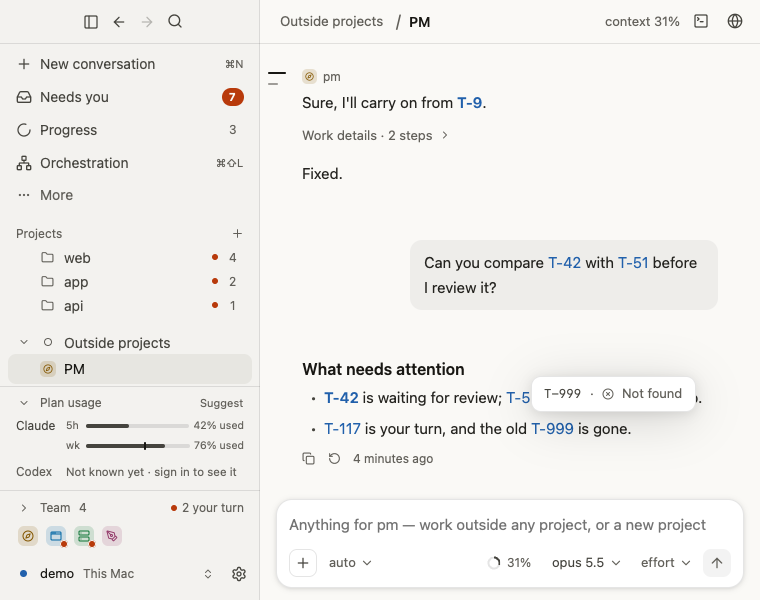
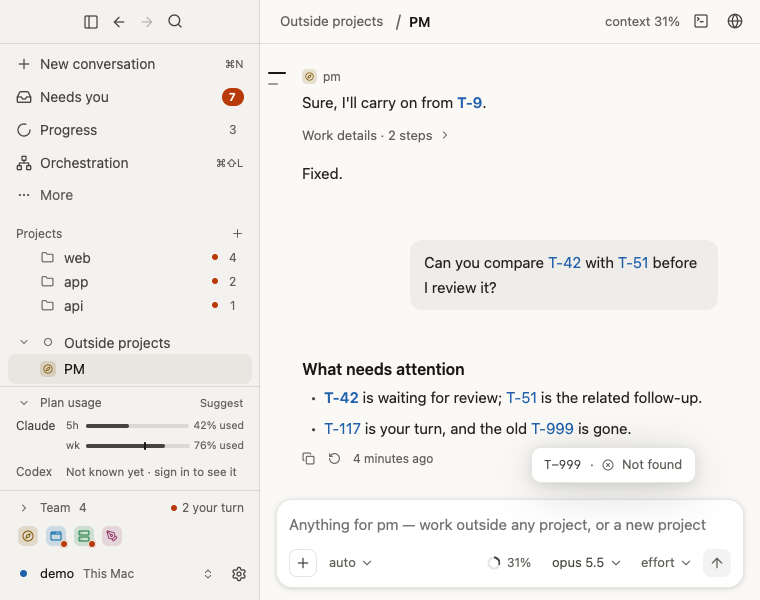
T-777 Small ticket card keeps clear of the reply's text: beside its row, or above/below where no text is
The one-line card (Looking…, Couldn't check, Not found) sat over the next
line. It now goes beside the link's row past its text when there is room,
else above or below where no row of text is within its height (slid right
along that line to where its text ends), else where it covers least. It keeps
the side it took as it turns into Couldn't check or the ticket's card.
gpui-base: TextSelection::text_rows, the window's painted text rows.

Changed region(s): [[0.6961, 0.63, 0.9079, 0.72], [0.7263, 0.75, 0.9079, 0.84]]

diff --git a/crates/desktop/src/views/ticket_card.rs b/crates/desktop/src/views/ticket_card.rs
@@ -492,6 +492,9 @@ pub struct TicketCard {
     looked: HashMap<TicketId, Instant>,
     /// Whose card was last drawn (a number, and whether it is the ticket's or the small one): its size is that card's.
     shape: Option<(TicketId, bool)>,
+    /// Where the small card went for the card opened at this epoch on this number: what it turns into
+    /// ("Couldn't check", the ticket's card) opens there too.
+    small: Option<(u64, TicketId, Rect, Side)>,
     /// The card drawn was cut to its room, so its height says nothing of how tall it is.
     capped: bool,
     /// Tickets acted on from a card: their undo shows off the work screens.
@@ -516,7 +519,7 @@ pub fn layer(cx: &mut Context<Shell>) -> AnyView {
     let card = cx.new(|cx| {
         // The daemon's answer to a lookup changes the shell, not the card: redraw with it.
         cx.observe(&owner, |_, _, cx| cx.notify()).detach();
-        TicketCard { shell, hover: Hover::default(), timer: None, drawn: Rc::new(Cell::new(None)), result: None, asked: HashMap::new(), looked: HashMap::new(), shape: None, capped: false, acted: HashSet::new(), said: (0, ScrollHandle::new(), ScrollHandle::new()) }
+        TicketCard { shell, hover: Hover::default(), timer: None, drawn: Rc::new(Cell::new(None)), result: None, asked: HashMap::new(), looked: HashMap::new(), shape: None, small: None, capped: false, acted: HashSet::new(), said: (0, ScrollHandle::new(), ScrollHandle::new()) }
     });
     cx.set_global(Layer(card.clone()));
     gpui_kit::base::text::on_link_hover(cx, |url, bounds, _, cx| {
@@ -797,9 +800,25 @@ impl Render for TicketCard {
         let natural = match self.drawn.get() {
             Some(r) => (r.w, if self.capped { tallest(window_size.1) } else { r.h }),
             None if found => GUESS,
-            None => (200., 36.),
+            None => (200., MISSING_H),
         };
-        let ((x, y, side), room) = fit_for(target.anchor, natural, window_size, target.prefer, found);
+        // Kept while the link stays where it was: a window made narrower picks again.
+        let kept = self.small.filter(|&(epoch, id, at, _)| epoch == self.hover.epoch && id == target.id && at == target.anchor).map(|(.., side)| side);
+        let ((x, y, side), room) = if found {
+            match kept {
+                // The look went above or below: the ticket's card grows there, as tall as that side lets it.
+                Some(side @ (Side::Above | Side::Below)) => fit_on(target.anchor, natural, window_size, side),
+                _ => fit(target.anchor, natural, window_size, target.prefer),
+            }
+        } else {
+            // Clear of the text around it, at the size of its widest words, so turning into another keeps its place.
+            let size = (natural.0.max(missing_width(window, target.id)), self.drawn.get().map_or(MISSING_H, |r| r.h));
+            let rows: Vec<Rect> = gpui_kit::base::TextSelection::text_rows(window, cx).into_iter().map(Rect::of).collect();
+            let (_, _, vertical) = place(target.anchor, GUESS, window_size, target.prefer);
+            let at = place_small(target.anchor, size, window_size, vertical, &rows, kept);
+            self.small = Some((self.hover.epoch, target.id, target.anchor, at.2));
+            (at, room_on(target.anchor, window_size.1, at.2).max(size.1))
+        };
         // Cut to the room it was given, it stays "cut" next time: the side is picked by what it would be uncut.
         self.capped = self.drawn.get().is_some_and(|r| r.h >= room - 0.5);
         let drawn = self.drawn.clone();
@@ -843,14 +862,97 @@ fn fit(anchor: Rect, natural: (f32, f32), window: (f32, f32), prefer: Side) -> (
     (place(anchor, (natural.0, natural.1.min(room)), window, prefer), room)
 }
 
-/// [`fit`] for the card of a ticket, or (`found` false) for the small one standing in for it: it takes the
-/// side the ticket's card would, so the answer grows in the place the look was, and never lands on the next line.
-fn fit_for(anchor: Rect, natural: (f32, f32), window: (f32, f32), prefer: Side, found: bool) -> ((f32, f32, Side), f32) {
-    if found {
-        return fit(anchor, natural, window, prefer);
+/// [`fit`] held to `side`, the side the small card took: cut to its room there rather than turned over.
+fn fit_on(anchor: Rect, natural: (f32, f32), window: (f32, f32), side: Side) -> ((f32, f32, Side), f32) {
+    let room = room_on(anchor, window.1, side);
+    (place(anchor, (natural.0, natural.1.min(room)), window, side), room)
+}
+
+/// Between the small card and the end of the text it sits beside.
+const BESIDE_GAP: f32 = 10.;
+
+/// Whether `r` covers none of the rows of text `rows` (touching is not covering).
+fn clear_of(r: Rect, rows: &[Rect]) -> bool {
+    rows.iter().all(|t| r.x >= t.right() - 0.5 || r.right() <= t.x + 0.5 || r.y >= t.bottom() - 0.5 || r.bottom() <= t.y + 0.5)
+}
+
+/// How much of the rows of text `rows` `r` covers.
+fn covered(r: Rect, rows: &[Rect]) -> f32 {
+    rows.iter().map(|t| (r.right().min(t.right()) - r.x.max(t.x)).max(0.) * (r.bottom().min(t.bottom()) - r.y.max(t.y)).max(0.)).sum()
+}
+
+/// Where the small card ("Looking…", "Not found") goes for a link at `anchor`, with the window's text in
+/// `rows`: beside the link's row past its text, when the row has room there and nothing above or below
+/// reaches into it; else on `prefer`'s side where no text is within its height — at the link, or slid
+/// right to where the text there ends, no further than a card's width — else the other side so; else the side where it covers least. `keep`: the side it took
+/// before, which it stays on while it still fits there.
+pub fn place_small(anchor: Rect, card: (f32, f32), window: (f32, f32), prefer: Side, rows: &[Rect], keep: Option<Side>) -> (f32, f32, Side) {
+    let (w, h) = card;
+    let (ww, wh) = window;
+    let inside = |r: Rect| r.x >= MARGIN - 0.5 && r.right() <= ww - MARGIN + 0.5 && r.y >= MARGIN - 0.5 && r.bottom() <= wh - MARGIN + 0.5;
+    let fits = |r: Rect| inside(r) && clear_of(r, rows);
+    let beside = || {
+        // The row's text: what shares the link's line (most of its height), the link included.
+        let end = rows.iter().filter(|t| t.y.max(anchor.y) - t.bottom().min(anchor.bottom()) < -anchor.h / 2.).fold(anchor.right(), |end, t| end.max(t.right()));
+        let x = end + BESIDE_GAP;
+        // Centred on the row, or its top or foot on the row's, whichever no line above or below reaches.
+        let spots = [anchor.y + (anchor.h - h) / 2., anchor.y, anchor.bottom() - h].map(|y| Rect::new(x, y, w, h));
+        spots.into_iter().find(|&r| fits(r))
+    };
+    // At the link's left edge, as the ticket's card goes.
+    let home = |side: Side| {
+        let (x, _, _) = place(anchor, card, window, side);
+        Rect::new(x, if side == Side::Below { anchor.bottom() + GAP } else { anchor.y - GAP - h }, w, h)
+    };
+    let over = |side: Side| {
+        let at = home(side);
+        // Where the text in its band leaves off: the places it could slide to, nearest first. Only right,
+        // and not far: to the left is the gutter and what is beside the conversation.
+        let band = rows.iter().filter(|t| t.y < at.bottom() - 0.5 && t.bottom() > at.y + 0.5);
+        let xs = std::iter::once(at.x).chain(band.map(|t| t.right() + BESIDE_GAP)).filter(|&x| x >= at.x && x <= anchor.x + WIDTH);
+        xs.map(|x| Rect::new(x, at.y, w, h)).filter(|&r| fits(r)).min_by(|a, b| a.x.total_cmp(&b.x))
+    };
+    let at = |r: Rect, side: Side| (r.x, r.y, side);
+    match keep {
+        Some(Side::Right) => {
+            if let Some(r) = beside() {
+                return at(r, Side::Right);
+            }
+        }
+        Some(side) => return over(side).map_or_else(|| place(anchor, card, window, side), |r| at(r, side)),
+        None => {}
     }
-    let (_, _, side) = place(anchor, GUESS, window, prefer);
-    fit(anchor, natural, window, side)
+    if let Some(r) = beside() {
+        return at(r, Side::Right);
+    }
+    let other = if prefer == Side::Above { Side::Below } else { Side::Above };
+    for side in [prefer, other] {
+        if let Some(r) = over(side) {
+            return at(r, side);
+        }
+    }
+    // Nowhere clear (a narrow window, big text): the side where it covers least.
+    let side = if inside(home(other)) && covered(home(other), rows) < covered(home(prefer), rows) { other } else { prefer };
+    place(anchor, card, window, side)
+}
+
+/// The small card's height as drawn: its row and border.
+const MISSING_H: f32 = 36.;
+
+/// How wide the small card for `id` is with the widest of its words, so that it fits where it goes whichever
+/// it says next: its number, a dot, a mark and the words, with its padding, gaps and border.
+fn missing_width(window: &Window, id: TicketId) -> f32 {
+    let system = window.text_system().clone();
+    let style = window.text_style();
+    let width = |text: String, font: Font, size: f32| {
+        let run = TextRun { len: text.len(), font, color: Hsla::default(), background_color: None, underline: None, strikethrough: None };
+        f32::from(system.shape_line(text.into(), px(size), &[run], None).width)
+    };
+    let words = [t!("card.loading"), t!("card.not_found"), t!("card.unanswered")].into_iter().map(|w| width(w.to_string(), style.font(), SMALL)).fold(0., f32::max);
+    let number = width(format!("T-{id}"), font(MONO), 12.);
+    let dot = width("·".into(), style.font(), SMALL);
+    // Padding 12 each side, three gaps of 8, a 12 pt mark, a 1 pt border each side; a little over for the fonts.
+    (2. * 12. + 3. * 8. + 12. + 2. + number + dot + words + 4.).max(MISSING_MIN)
 }
 
 /// The room between the window's margin and the link, on `side` of it.
@@ -1290,7 +1392,7 @@ mod tests {
 
     use equipe_core::protocol::{TicketId, TicketStatus};
 
-    use super::{Act, CLOSE_AFTER, Hover, OPEN_AFTER, Phase, RESULT_FOR, Rect, SCROLL_QUIET, Side, Target, act_for_key, acts, done_words, fit, fit_for, place, tallest};
+    use super::{Act, CLOSE_AFTER, Hover, OPEN_AFTER, Phase, RESULT_FOR, Rect, SCROLL_QUIET, Side, Target, act_for_key, acts, done_words, fit, fit_on, place, place_small, tallest};
     use crate::board::MergeWay;
 
     const WIN: (f32, f32) = (1200., 800.);
@@ -1367,17 +1469,78 @@ mod tests {
         assert_eq!(sunk, Side::Below);
     }
 
+    /// A paragraph's rows, 20 tall from `top`, each `widths[i]` wide from x 80.
+    fn rows(top: f32, widths: &[f32]) -> Vec<Rect> {
+        widths.iter().enumerate().map(|(i, &w)| Rect::new(80., top + 20. * i as f32, w, 20.)).collect()
+    }
+
+    fn covers(at: (f32, f32, Side), card: (f32, f32), rows: &[Rect]) -> bool {
+        let r = Rect::new(at.0, at.1, card.0, card.1);
+        rows.iter().any(|t| r.x < t.x + t.w - 0.5 && t.x + 0.5 < r.x + r.w && r.y < t.y + t.h - 0.5 && t.y + 0.5 < r.y + r.h)
+    }
+
     #[test]
-    fn looking_and_not_found_take_the_side_the_ticket_card_will_take() {
-        // 760×600: 300 above the link, 270 below; the ticket card (about 300) goes above.
-        let (anchor, win) = (link(100., 300.), (760., 600.));
-        let ticket = fit_for(anchor, (380., 400.), win, Side::Below, true).0;
-        let looking = fit_for(anchor, (200., 36.), win, Side::Below, false).0;
-        assert_eq!((ticket.2, looking.2), (Side::Above, Side::Above));
-        // Its foot a gap over the link, as the ticket's card's is: the answer grows upward from the same edge.
-        assert!((looking.1 + 36. - (300. - 6.)).abs() < 0.01, "{looking:?}");
-        // Where the ticket's card fits below (a link high up), the small one goes below too.
-        assert_eq!(fit_for(link(100., 40.), (200., 36.), win, Side::Below, false).0.2, Side::Below);
+    fn the_small_card_sits_beside_its_link_when_its_row_has_room() {
+        // A heading over the link's row and a line under it, as in T-42's reply; the row ends at 480.
+        let text = rows(280., &[220., 400., 420.]);
+        let anchor = Rect::new(80., 300., 40., 20.);
+        let card = (190., 36.);
+        let at = place_small(anchor, card, WIN, Side::Above, &text, None);
+        assert_eq!(at.2, Side::Right);
+        assert!(at.0 >= 480., "{at:?}");
+        assert!(!covers(at, card, &text), "{at:?}");
+    }
+
+    #[test]
+    fn a_full_row_sends_the_small_card_to_the_side_with_no_text() {
+        // Rows to the window's edge: nothing beside. Text above the link, none below.
+        let text = rows(260., &[1100., 1100., 1100.]);
+        let anchor = Rect::new(300., 300., 40., 20.);
+        let card = (190., 36.);
+        let at = place_small(anchor, card, WIN, Side::Above, &text, None);
+        assert_eq!(at.2, Side::Below);
+        assert!(!covers(at, card, &text));
+        // Text on both sides: the side asked for, as before.
+        let crowded = rows(260., &[1100., 1100., 1100., 1100., 1100.]);
+        assert_eq!(place_small(anchor, card, WIN, Side::Above, &crowded, None).2, Side::Above);
+        // The other side has no room for it: the side asked for.
+        let low = Rect::new(300., 740., 40., 20.);
+        let text = rows(700., &[1100., 1100., 1100.]);
+        assert_eq!(place_small(low, card, WIN, Side::Above, &text, None).2, Side::Above);
+    }
+
+    #[test]
+    fn the_small_card_slides_along_the_line_above_to_where_its_text_ends() {
+        // A full row with the link (nothing beside), a short heading over it, a full row under it.
+        let text = vec![Rect::new(80., 260., 240., 30.), Rect::new(80., 300., 1100., 30.), Rect::new(80., 330., 1100., 30.)];
+        let anchor = Rect::new(80., 300., 60., 30.);
+        let card = (300., 36.);
+        let at = place_small(anchor, card, WIN, Side::Above, &text, None);
+        assert_eq!(at.2, Side::Above);
+        assert!((at.0 - 330.).abs() < 0.01, "{at:?}");
+        assert!(!covers(at, card, &text));
+        // Text everywhere: the side covering least — below, where only its foot reaches the next row.
+        let full = vec![Rect::new(80., 260., 1100., 30.), Rect::new(80., 300., 1100., 30.), Rect::new(80., 330., 1100., 30.)];
+        assert_eq!(place_small(anchor, card, WIN, Side::Above, &full, None).2, Side::Below);
+    }
+
+    #[test]
+    fn what_the_small_card_turns_into_keeps_its_side() {
+        let text = rows(280., &[220., 400., 420.]);
+        let anchor = Rect::new(80., 300., 40., 20.);
+        let card = (190., 36.);
+        let first = place_small(anchor, card, WIN, Side::Above, &text, None);
+        // "Couldn't check" on the next frame: the same place, even with wider words.
+        assert_eq!(place_small(anchor, (230., 36.), WIN, Side::Above, &text, Some(first.2)).2, first.2);
+        // Kept beside where it no longer fits (wider words than were measured): it picks again, inside the window.
+        let wide = place_small(anchor, (1000., 36.), WIN, Side::Above, &text, Some(Side::Right));
+        assert_ne!(wide.2, Side::Right);
+        // Kept below, it stays below even where it could now go beside.
+        assert_eq!(place_small(anchor, card, WIN, Side::Above, &text, Some(Side::Below)).2, Side::Below);
+        // The ticket's card, held to the side the look took, is cut to that side's room rather than turned over.
+        let ((_, y, side), room) = fit_on(Rect::new(100., 300., 40., 20.), (380., 400.), (760., 600.), Side::Below);
+        assert_eq!(side, Side::Below);
+        assert!((y - 326.).abs() < 0.01 && (room - 266.).abs() < 0.01, "{y} {room}");
     }
 
     #[test]

diff --git a/design/flows/shoot-desktop.py b/design/flows/shoot-desktop.py
@@ -110,7 +110,10 @@ state("conversation/chat/ticket-card-waiting", "chat;wait:800", {"FAKE_CARDS": "
 # At 150% the narrowest window has little room: the card keeps its gap and scrolls instead. One state each, as the lookup runs out in seconds.
 Z = "chat;wait:800;zoom:150;wait:600"
 state("conversation/chat/ticket-card-zoomed", Z, {"FAKE_CARDS": "1", "FAKE_ASKS": "0", "FAKE_STALE": "42"}, sizes=[(760, 600)], at={760: "hover:512,151;wait:1500"}, label="Zoomed to 150%, narrowest width: the card keeps its gap over the link")
-state("conversation/chat/ticket-card-zoomed-missing", Z, {"FAKE_CARDS": "1", "FAKE_ASKS": "0"}, sizes=[(760, 600)], at={760: "hover:639,308;wait:1500"}, label="Zoomed to 150%: Not found, with its mark")
+state("conversation/chat/ticket-card-zoomed-missing", Z, {"FAKE_CARDS": "1", "FAKE_ASKS": "0"}, at={1200: "hover:828,505;wait:1500", 760: "hover:639,308;wait:1500"}, label="Zoomed to 150%: Not found, with its mark, clear of the reply's text")
+# T-777: at 150% the small card finds a place clear of the reply's text, or covers the least of it.
+state("conversation/chat/ticket-card-zoomed-looking", Z, {"FAKE_CARDS": "1", "FAKE_ASKS": "0", "FAKE_STALE": "42", "FAKE_NO_LOOKUP": "1"}, sizes=[(1200, 760)], at={1200: "hover:511,459;wait:700"}, wait=0, label="Zoomed to 150%: Looking… on T-42, slid along the heading's line")
+state("conversation/chat/ticket-card-zoomed-looking-narrow", Z, {"FAKE_CARDS": "1", "FAKE_ASKS": "0", "FAKE_STALE": "42", "FAKE_NO_LOOKUP": "1"}, sizes=[(760, 600)], at={760: "hover:511,151;wait:700"}, wait=0, label="The same, at the narrowest width")
 # One width each: the lookup runs out in a few seconds, and a resize takes longer than that.
 state("conversation/chat/ticket-card-looking", "chat;wait:800;hover:438,468;wait:700", {"FAKE_CARDS": "1", "FAKE_ASKS": "0", "FAKE_STALE": "42", "FAKE_NO_LOOKUP": "1"}, sizes=[(1200, 760)], wait=0, label="A ticket card the list missed, while the daemon is still asked")
 state("conversation/chat/ticket-card-looking-narrow", "chat;wait:800", {"FAKE_CARDS": "1", "FAKE_ASKS": "0", "FAKE_STALE": "42", "FAKE_NO_LOOKUP": "1"}, sizes=[(760, 600)], at={760: "hover:341,397;wait:700"}, wait=0, label="The same, at the narrowest width")

diff --git a/vendor/gpui-base/src/text_selection.rs b/vendor/gpui-base/src/text_selection.rs
@@ -2365,6 +2365,22 @@ impl TextSelection {
         WindowSelectionState::existing(window, cx)?.read(cx).ends(cx)
     }
 
+    /// equipe: every row of selectable text in the window, as painted last
+    /// frame (or replayed from a cached view) — where a floating card must not
+    /// sit over the text.
+    pub fn text_rows(window: &Window, cx: &App) -> Vec<Bounds<Pixels>> {
+        let Some(state) = WindowSelectionState::existing(window, cx) else {
+            return Vec::new();
+        };
+        state
+            .read(cx)
+            .participants
+            .values()
+            .filter(|registration| registration.participant.upgrade().is_some())
+            .flat_map(|registration| registration.registration.text_bounds.iter().copied())
+            .collect()
+    }
+
     /// equipe: whether the pointer is still dragging a selection out.
     pub fn is_selecting(window: &Window, cx: &App) -> bool {
         WindowSelectionState::existing(window, cx).is_some_and(|state| state.read(cx).is_selecting)
